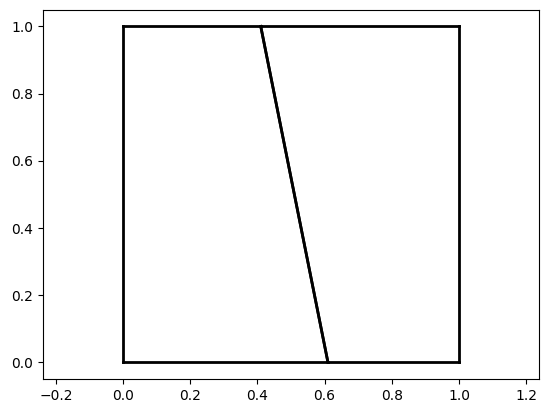
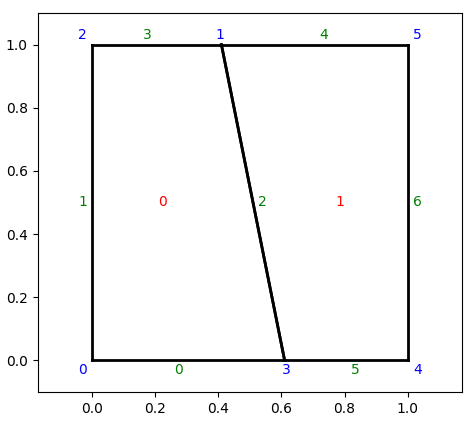
parenting 2

Changed region(s): [[0.0, 0.0296, 0.9726, 1.0], [0.7074, 0.4433, 0.7368, 0.5025], [0.3242, 0.4433, 0.3537, 0.5025]]

diff --git a/src/python/sdot/bindings/sdot_bindings.cpp b/src/python/sdot/bindings/sdot_bindings.cpp
@@ -334,6 +334,7 @@ PYBIND11_MODULE( SDOT_CONFIG_module_name, m ) { // py::module_local()
         //
         // Vec<SmallVec<PI,2>> internal_cut_cells( FromSize(), nb_diracs );
         Vec<Pt> vertex_coords( FromReservationSize(), nb_diracs );
+        std::vector<std::vector<PI>> boundary_items( nb_boundaries );
         using RefMap = RangeOfClasses<RefMapForDim,0,nb_dims+1,CtInt<nb_dims>>;
         RefMap ref_map( nb_diracs, nb_boundaries ); 
         std::mutex mutex;
@@ -351,7 +352,7 @@ PYBIND11_MODULE( SDOT_CONFIG_module_name, m ) { // py::module_local()
                     refs[ d ] = cell.cut_index( cuts[ d ], 0, nb_diracs );
 
                 // get refs and parenting for each vertex and sub-item
-                get_rec_item_data( vertex_coords, cell.vertex_coord( n ), ref_map, CtInt<nb_dims>(), Vec<PI,0>(), refs, cell.info.i0 );
+                get_rec_item_data( boundary_items, nb_diracs, vertex_coords, cell.vertex_coord( n ), ref_map, CtInt<nb_dims>(), Vec<PI,0>(), refs, cell.info.i0 );
             }
 
             mutex.unlock();
@@ -363,7 +364,7 @@ PYBIND11_MODULE( SDOT_CONFIG_module_name, m ) { // py::module_local()
             ref_lists[ nb_dims - d ] = Array_from_VecPt( ref_map[ d ].refs );
         } );
 
-        // => parenting
+        // => children
         std::vector<std::vector<std::vector<std::vector<PI>>>> parenting( nb_dims + 1 );
         CtRange<0,nb_dims+1>::for_each_item( [&]( auto r ) {
             auto &lp = ref_map[ CtInt<nb_dims - r>() ];
@@ -374,10 +375,24 @@ PYBIND11_MODULE( SDOT_CONFIG_module_name, m ) { // py::module_local()
             } );
         } );
 
+        // parents
+        for( PI parent_dim = 0; parent_dim < nb_dims+1; ++parent_dim ) {
+            for( PI child_dim = 0; child_dim < parent_dim; ++child_dim ) {
+                for( PI num_parent_item = 0; num_parent_item < parenting[ parent_dim ][ child_dim ].size(); ++num_parent_item ) {
+                    for( PI num_child_item : parenting[ parent_dim ][ child_dim ][ num_parent_item ] ) {
+                        auto &l = parenting[ child_dim ][ parent_dim ][ num_child_item ];
+                        if ( std::find( l.begin(), l.end(), num_parent_item ) == l.end() )
+                            l.push_back( num_parent_item );
+                    }
+                }
+            }
+        }
+
         return std::make_tuple(
             Array_from_VecPt( vertex_coords ),
             ref_lists,
-            parenting
+            parenting,
+            boundary_items
         );
     } );
     

diff --git a/src/python/sdot/bindings/RefMap.h b/src/python/sdot/bindings/RefMap.h
@@ -67,8 +67,8 @@ template<class nb_dims_> struct RefMapForDim<0,nb_dims_> {
     Vec<bool> seen;
 };
 
-template<int d,int nb_dims>
-void get_rec_item_data( auto &vertex_coords, const auto &vertex_coord, auto &ref_map, CtInt<nb_dims> nd, const auto &children_indices, Vec<PI,d> lefs, PI i0 ) {
+template<int c,int d,int nb_dims>
+void get_rec_item_data( auto &boundary_items, PI nb_diracs, auto &vertex_coords, const auto &vertex_coord, auto &ref_map, CtInt<nb_dims> nd, const Vec<PI,c> &children_indices, Vec<PI,d> lefs, PI i0 ) {
     Vec<PI,d+1> refs = lefs.with_pushed_value( i0 );
     std::sort( refs.begin(), refs.end() );
 
@@ -76,22 +76,26 @@ void get_rec_item_data( auto &vertex_coords, const auto &vertex_coord, auto &ref
     auto &rm = ref_map[ lefs.size() ];
 
     // get index
-    PI ind = rm.find( refs, /*on new item*/ [&]( PI new_ind ) {
+    PI ind = rm.find( refs, /*on new item*/ [&]( PI ind ) {
         // if on a vertex, add the coordinates 
         if ( d == nb_dims )
             vertex_coords << vertex_coord;
+
+        // boundary_item
+        if ( d == 1 && lefs[ 0 ] >= nb_diracs )
+            boundary_items[ lefs[ 0 ] - nb_diracs ].push_back( ind );
 
         // register new parenting vectors
         rm.on_new_ref();
     } );
 
-    //
-    for( PI e = 0; e < children_indices.size(); ++e )
+    // parenting
+    for( PI e = 0; e < c; ++e )
         rm.parenting[ e ][ ind ].push_back_unique( children_indices[ e ] );
 
     // recursion
     auto new_children_indices = children_indices.with_pushed_value( ind );
     CtRange<0,d>::for_each_item( [&]( auto i ) {
-        get_rec_item_data( vertex_coords, vertex_coord, ref_map, nd, new_children_indices, lefs.without_index( i ), i0 );
+        get_rec_item_data( boundary_items, nb_diracs, vertex_coords, vertex_coord, ref_map, nd, new_children_indices, lefs.without_index( i ), i0 );
     } );
 }

diff --git a/src/python/sdot/PowerDiagramSummary.py b/src/python/sdot/PowerDiagramSummary.py
@@ -14,11 +14,12 @@ class PowerDiagramSummary:
             `base`: can be use if `true_dimensionality` < `ndim` to get coordinate in the `ndim` space
 
     """
-    def __init__( self,vertex_coords, ref_lists, parenting, base ):
-        self.vertex_coords = vertex_coords
-        self.ref_lists     = ref_lists
-        self.parenting     = parenting
-        self.base          = base
+    def __init__( self,vertex_coords, ref_lists, parenting, boundary_items, base ):
+        self.boundary_items = boundary_items
+        self.vertex_coords  = vertex_coords
+        self.ref_lists      = ref_lists
+        self.parenting      = parenting
+        self.base           = base
 
     @property
     def nb_cells( self ):
@@ -31,3 +32,32 @@ class PowerDiagramSummary:
     @property
     def ndim( self ):
         return self.base.shape[ 0 ]
+
+    def nb_items( self, dim ):
+        """ nb items of dimensionality `dim` """
+        return len( self.parenting[ dim ][ 0 ] )
+
+    def barycenters( self, dim = None ):
+        """ by default, return the barycenters of the cells.
+
+            specifiying dim allows for returning the barycenters of vertices (dim=0), edges (dim=1), and so on.
+
+            TODO: underlying_measures
+        """
+        if dim is None:
+            dim = self.ndim
+
+        if dim == 0:
+            return self.vertex_coords
+
+        res = np.empty( [ self.nb_items( dim ), self.ndim ] )
+        for n, vs in enumerate( self.parenting[ dim ][ 0 ] ):
+            res[ n, : ] = np.mean( self.vertex_coords[ vs ], axis=0 )
+ 
+        return res
+ 
+    def integrals( self ):
+        """  """
+        raise RuntimeError( "TODO" )
+    
+    

diff --git a/doc/power_diagram_py.md b/doc/power_diagram_py.md
@@ -198,7 +198,7 @@ we have
  [1 3 4]
  [1 3 5]]
 
-# ps.ref_lists[ 1 ] => references for item of dimensionality 1, i.e. for edges (and rays)
+# ps.ref_lists[ 1 ] => references for item of dimensionality 1, i.e. for edges and rays
 [[2 4]
  [0 4]
  [0 2]
@@ -211,7 +211,45 @@ we have
  [1 3]
  [3 5]]
 
-# 
+# ps.parenting[ 2 ][ 0 ] => children of dim 0 (vertices) from items of dim 2 (faces)
+[0, 1, 2, 3]
+[1, 4, 3, 5]
+
+# ps.parenting[ 1 ][ 2 ] => parents of dim 2 (faces) from items of dim 1 (edges)
+[0]
+[0]
+[0, 1]
+[0]
+[1]
+[1]
+[1]
+
+# ps.boundary_items => items indices of part that belong to each boundary item.
+#   In this case, indices of edges included in each boudary item (by index of the boundary item)
+# add_box_boundaries added the boundaries [ [-1,0,0], [1,0,1], [0,-1,0], [0,1,1] ] 
+[[1], [6], [0, 5], [3, 4]]
 ```
 
+Integrations
+------------
+
+The method `PowerDiagram.cell_integrals( f )` (or `Cell.integral( f )`) takes as input a symbolic formula. By default, it uses the `PowerDiagram.underlying_measure` and the `PowerDiagram.underlying_radius_function` expression so that the integral is equal to `integral( underlying_measure * underlying_radius_function * f, cell )`. If is possible to use another underlying measure of radius functions by using the `override_...` arguments.
+
+`f` can be a scalar or a list, a list of list, ...
+
+```python
+# a simple triangle
+c = Cell( ndim = 2 )
+c.cut( [-1, 0 ], 0 )
+c.cut( [ 0,-1 ], 0 )
+c.cut( [ 1, 1 ], 1 )
+
+# c.integral() => integration of 1 on the cell
+0.5
+
+# c.integral([]) => integration of 1 on the cell
+0.5
+
+
+```
 
